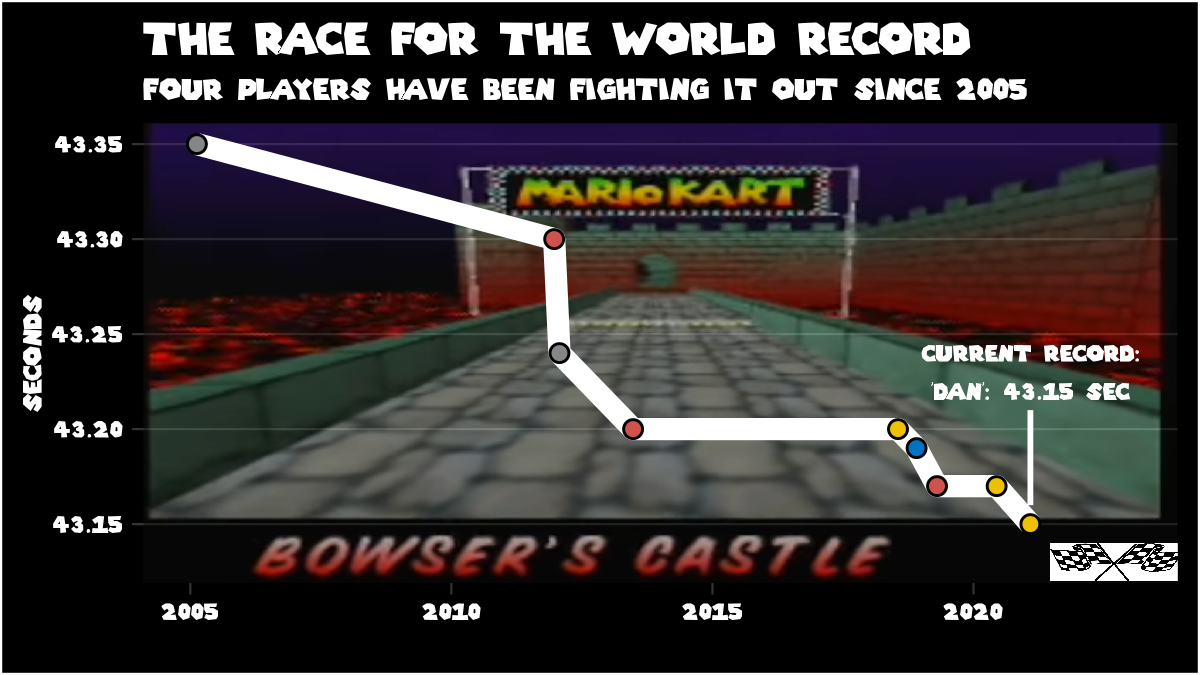
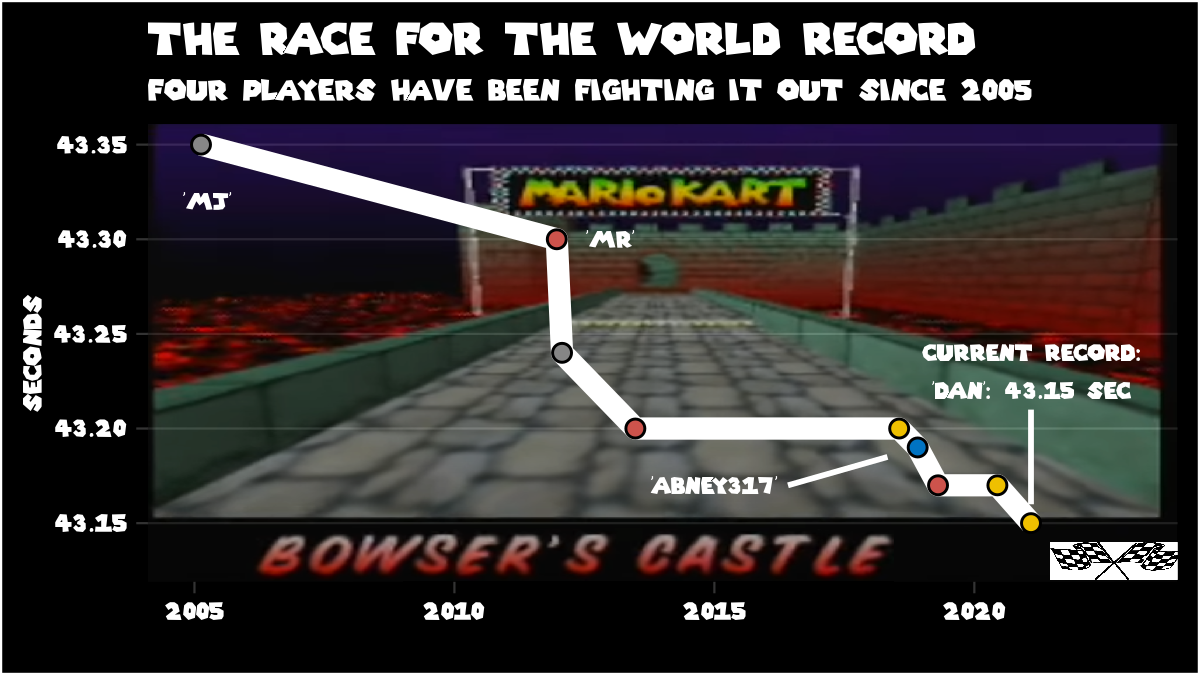
Add player name annotation

diff --git a/2021-05-25 Mario Kart World Records/2021-05-25-Mario-Kart-World-Records.md b/2021-05-25 Mario Kart World Records/2021-05-25-Mario-Kart-World-Records.md
@@ -1,0 +1,311 @@
+2021-05-25 Mario Kart World Records
+================
+
+``` r
+library(tidyverse)
+```
+
+    ## Warning: package 'tidyverse' was built under R version 4.0.5
+
+    ## -- Attaching packages --------------------------------------- tidyverse 1.3.1 --
+
+    ## v ggplot2 3.3.3     v purrr   0.3.4
+    ## v tibble  3.1.2     v dplyr   1.0.6
+    ## v tidyr   1.1.3     v stringr 1.4.0
+    ## v readr   1.4.0     v forcats 0.5.1
+
+    ## Warning: package 'tibble' was built under R version 4.0.5
+
+    ## Warning: package 'tidyr' was built under R version 4.0.5
+
+    ## Warning: package 'dplyr' was built under R version 4.0.5
+
+    ## Warning: package 'forcats' was built under R version 4.0.5
+
+    ## -- Conflicts ------------------------------------------ tidyverse_conflicts() --
+    ## x dplyr::filter() masks stats::filter()
+    ## x dplyr::lag()    masks stats::lag()
+
+``` r
+library(extrafont)
+```
+
+    ## Registering fonts with R
+
+``` r
+library(showtext)
+```
+
+    ## Warning: package 'showtext' was built under R version 4.0.5
+
+    ## Loading required package: sysfonts
+
+    ## Warning: package 'sysfonts' was built under R version 4.0.5
+
+    ## Loading required package: showtextdb
+
+    ## Warning: package 'showtextdb' was built under R version 4.0.5
+
+    ## 
+    ## Attaching package: 'showtextdb'
+
+    ## The following object is masked from 'package:extrafont':
+    ## 
+    ##     font_install
+
+``` r
+library(ggsci)
+library(ggimage)
+```
+
+    ## Warning: package 'ggimage' was built under R version 4.0.4
+
+## Read data
+
+``` r
+ds <- readr::read_csv('https://raw.githubusercontent.com/rfordatascience/tidytuesday/master/data/2021/2021-05-25/records.csv')
+```
+
+    ## 
+    ## -- Column specification --------------------------------------------------------
+    ## cols(
+    ##   track = col_character(),
+    ##   type = col_character(),
+    ##   shortcut = col_character(),
+    ##   player = col_character(),
+    ##   system_played = col_character(),
+    ##   date = col_date(format = ""),
+    ##   time_period = col_character(),
+    ##   time = col_double(),
+    ##   record_duration = col_double()
+    ## )
+
+``` r
+drivers <- readr::read_csv('https://raw.githubusercontent.com/rfordatascience/tidytuesday/master/data/2021/2021-05-25/drivers.csv')
+```
+
+    ## 
+    ## -- Column specification --------------------------------------------------------
+    ## cols(
+    ##   position = col_double(),
+    ##   player = col_character(),
+    ##   total = col_double(),
+    ##   year = col_double(),
+    ##   records = col_double(),
+    ##   nation = col_character()
+    ## )
+
+## Visualization
+
+  - All times are PAL times
+  - Most competitive tracks?
+  - Number of records
+  - Which tracks seem like they could improve more?
+  - Normalization of records?
+  - Percent improvement on original record?
+
+<!-- end list -->
+
+``` r
+ds %>% 
+  filter(shortcut == "No", type == "Single Lap") %>% 
+  ggplot(aes(x= date, y = time, group = track)) +
+  geom_line() +
+  facet_wrap(~track, scales = "free_y")
+```
+
+![](2021-05-25-Mario-Kart-World-Records_files/figure-gfm/unnamed-chunk-3-1.png)<!-- -->
+
+``` r
+ds %>% 
+  filter(date > "2010-01-01", shortcut == "No", type == "Single Lap") %>% 
+  ggplot(aes(x= date, y = time, group = track)) +
+  geom_line() +
+  facet_wrap(~track, scales = "free_y")
+```
+
+![](2021-05-25-Mario-Kart-World-Records_files/figure-gfm/unnamed-chunk-4-1.png)<!-- -->
+\#\# Compare change in time to first record
+
+  - This graph is no better than the straight times
+
+<!-- end list -->
+
+``` r
+ds %>% 
+  filter(date > "1999-01-01", shortcut == "No", type == "Single Lap") %>% 
+  group_by(track) %>% 
+  mutate(original_record = max(time),
+         change_to_original = 1- time/original_record) %>% 
+  ggplot(aes(date, change_to_original, group = track)) +
+  geom_line() +
+  facet_wrap(~track)
+```
+
+![](2021-05-25-Mario-Kart-World-Records_files/figure-gfm/unnamed-chunk-5-1.png)<!-- -->
+
+## Which ones are most competitive?
+
+  - Not much difference
+
+<!-- end list -->
+
+``` r
+ds %>% 
+  filter(shortcut == "No", type == "Single Lap") %>% 
+  group_by(track) %>% 
+  summarise(records = n())
+```
+
+    ## # A tibble: 16 x 2
+    ##    track                 records
+    ##    <chr>                   <int>
+    ##  1 Banshee Boardwalk          28
+    ##  2 Bowser's Castle            29
+    ##  3 Choco Mountain             32
+    ##  4 D.K.'s Jungle Parkway      47
+    ##  5 Frappe Snowland            44
+    ##  6 Kalimari Desert            48
+    ##  7 Koopa Troopa Beach         33
+    ##  8 Luigi Raceway              33
+    ##  9 Mario Raceway              39
+    ## 10 Moo Moo Farm               37
+    ## 11 Rainbow Road               40
+    ## 12 Royal Raceway              36
+    ## 13 Sherbet Land               35
+    ## 14 Toad's Turnpike            36
+    ## 15 Wario Stadium              65
+    ## 16 Yoshi Valley               43
+
+## Full graph
+
+  - Focus on Bowser’s castle
+  - The playerbase seems relatively small, highlight the race between
+    the different players
+
+### Read background image and symbols
+
+``` r
+bg <- "Capture75opCropmoved.png"
+flag <- "flags_white_bg.png"
+font_add(family = "mariokart", regular = "SuperMario256.ttf")
+showtext_auto()
+```
+
+### Define theme
+
+``` r
+mk_font <- "mariokart"
+
+mk64_theme <- theme_dark() +
+  theme(panel.grid.major.x = element_blank(),
+        panel.grid.minor.x = element_blank(),
+        panel.grid.minor.y = element_blank(),
+        panel.grid.major.y = element_line(),
+        axis.title.x = element_blank(),
+        plot.background = element_rect(fill = "black"),
+        panel.background = element_rect(fill = "black"),
+        text=element_text(family=mk_font, color = "white"),
+        axis.text = element_text(family=mk_font, color = "white", size = 18),
+        plot.title = element_text(family=mk_font, color = "white", size = 33),
+        plot.subtitle = element_text(family=mk_font, color = "white", size = 22),
+        axis.title.y = element_text(family=mk_font, color = "white", size = 19),
+        legend.position = "none")
+```
+
+``` r
+p <- ds %>% 
+  filter(date > "2005-02-01", shortcut == "No", 
+         type == "Single Lap", track == "Bowser's Castle") %>% 
+  ggplot(aes(x= date, y = time, group = track)) +
+  geom_line(color = "white", size = 2.5) +
+  geom_point(aes(fill = player), size = 1.8, shape =21) +
+  labs(title = "The race for the world record", y = "Seconds", 
+       subtitle = "Four players have been fighting it out since 2005",
+       caption = "") +
+  scale_fill_jco() +
+  scale_x_date(limits = c(as.Date("2005-01-01"), as.Date("2023-01-01"))) + 
+  geom_bgimage(bg) +
+  geom_image(aes(x= as.Date("2022-10-01"), y = 43.13, image = flag), size = 0.13) +
+  # Dan
+  annotate(geom = "text", x =  as.Date("2021-02-02"), 
+           y = 43.24, label = "Current record:",
+           color = "white", family = mk_font, size = 6) +
+  annotate(geom = "text", x =  as.Date("2021-02-02"), 
+           y = 43.22, label = "'Dan': 43.15 sec",
+           color = "white", family = mk_font, size = 6) +
+  annotate(geom = "segment", x = as.Date("2021-02-02"), xend = as.Date("2021-02-02") , 
+           y = 43.21, yend = 43.16, color = "white", size = 0.65) +
+  # Abney317
+  annotate(geom = "text", x =  as.Date("2015-01-01"), 
+           y = 43.17, label = "'Abney317'",
+           color = "white", family = mk_font, size = 6) +
+  annotate(geom = "segment", x = as.Date("2016-06-01"), xend = as.Date("2018-05-01"), 
+           y = 43.17, yend = 43.185, color = "white", size = 0.65) +
+  # MJ
+  annotate(geom = "text", x =  as.Date("2005-04-01"), 
+           y = 43.32, label = "'MJ'",
+           color = "white", family = mk_font, size = 6) +
+  # MR
+  annotate(geom = "text", x =  as.Date("2013-01-01"), 
+           y = 43.30, label = "'MR'",
+           color = "white", family = mk_font, size = 6) +
+  mk64_theme 
+p
+```
+
+![](2021-05-25-Mario-Kart-World-Records_files/figure-gfm/unnamed-chunk-9-1.png)<!-- -->
+
+``` r
+ggsave("mario.png", p, device = "png", units = "in", width = 4, height = 2.25, scale = 1, type = "cairo")
+```
+
+# <https://www.dafont.com/super-mario-256.font>
+
+``` r
+sessionInfo()
+```
+
+    ## R version 4.0.3 (2020-10-10)
+    ## Platform: x86_64-w64-mingw32/x64 (64-bit)
+    ## Running under: Windows 10 x64 (build 18363)
+    ## 
+    ## Matrix products: default
+    ## 
+    ## locale:
+    ## [1] LC_COLLATE=English_United States.1252 
+    ## [2] LC_CTYPE=English_United States.1252   
+    ## [3] LC_MONETARY=English_United States.1252
+    ## [4] LC_NUMERIC=C                          
+    ## [5] LC_TIME=English_United States.1252    
+    ## 
+    ## attached base packages:
+    ## [1] stats     graphics  grDevices utils     datasets  methods   base     
+    ## 
+    ## other attached packages:
+    ##  [1] ggimage_0.2.8   ggsci_2.9       showtext_0.9-2  showtextdb_3.0 
+    ##  [5] sysfonts_0.8.3  extrafont_0.17  forcats_0.5.1   stringr_1.4.0  
+    ##  [9] dplyr_1.0.6     purrr_0.3.4     readr_1.4.0     tidyr_1.1.3    
+    ## [13] tibble_3.1.2    ggplot2_3.3.3   tidyverse_1.3.1
+    ## 
+    ## loaded via a namespace (and not attached):
+    ##  [1] Rcpp_1.0.5          lubridate_1.7.10    assertthat_0.2.1   
+    ##  [4] digest_0.6.27       utf8_1.1.4          R6_2.5.0           
+    ##  [7] cellranger_1.1.0    backports_1.2.0     reprex_2.0.0       
+    ## [10] evaluate_0.14       httr_1.4.2          pillar_1.6.1       
+    ## [13] rlang_0.4.10        curl_4.3            readxl_1.3.1       
+    ## [16] rstudioapi_0.13     extrafontdb_1.0     magick_2.7.0       
+    ## [19] rmarkdown_2.6       labeling_0.4.2      munsell_0.5.0      
+    ## [22] broom_0.7.6         compiler_4.0.3      modelr_0.1.8       
+    ## [25] xfun_0.22           pkgconfig_2.0.3     gridGraphics_0.5-1 
+    ## [28] htmltools_0.5.1.1   tidyselect_1.1.1    fansi_0.4.2        
+    ## [31] crayon_1.4.1        dbplyr_2.1.1        withr_2.3.0        
+    ## [34] grid_4.0.3          jsonlite_1.7.2      Rttf2pt1_1.3.8     
+    ## [37] gtable_0.3.0        lifecycle_1.0.0     DBI_1.1.0          
+    ## [40] magrittr_2.0.1      scales_1.1.1        cli_2.5.0          
+    ## [43] stringi_1.5.3       farver_2.0.3        fs_1.5.0           
+    ## [46] xml2_1.3.2          ellipsis_0.3.2      rvcheck_0.1.8      
+    ## [49] generics_0.1.0      vctrs_0.3.8         tools_4.0.3        
+    ## [52] ggplotify_0.0.5     glue_1.4.2          hms_1.0.0          
+    ## [55] yaml_2.2.1          colorspace_2.0-0    BiocManager_1.30.10
+    ## [58] rvest_1.0.0         knitr_1.30          haven_2.3.1
